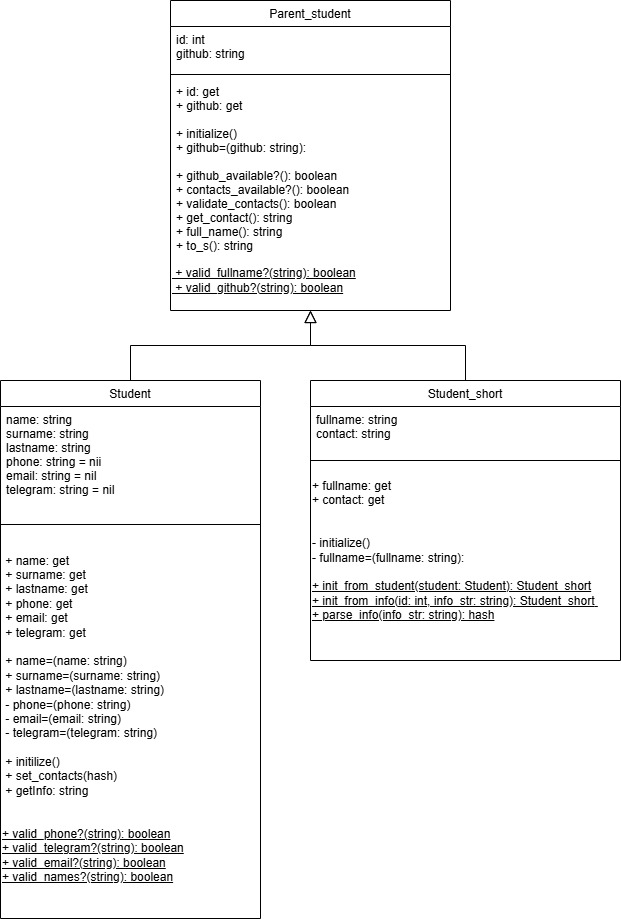
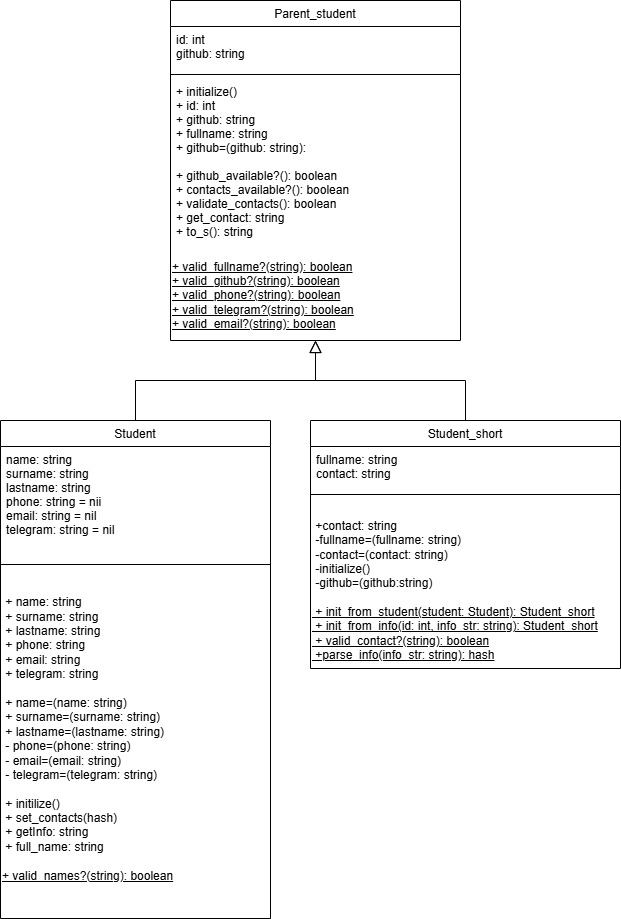
(lab.2) ref: change get_contact and taken out in parent class

diff --git a/student/student_short.rb b/student/student_short.rb
@@ -3,13 +3,14 @@ require_relative 'student'
 
 class Student_short < Parent_student
 
-  attr_reader :fullname, :contact
+  attr_reader :contact
   private_class_method :new
+  private :github=
 
   def initialize(id:, fullname:, github: nil, contact: nil)
     super(id: id, github: github)
     self.fullname = fullname
-    @contact = contact
+    self.contact = contact
   end
 
   def self.init_from_student(student)
@@ -35,6 +36,29 @@ class Student_short < Parent_student
     end
   end
 
+  private def contact=(contact)
+    if self.class.valid_contact?(contact)
+      @contact = contact
+    else
+      raise ArgumentError, "неверный формат контакта: #{contact}"
+    end
+  end
+
+  def self.valid_contact?(contact)
+    return true if contact.nil? || contact.empty? 
+    info = contact.split(" ")
+    case info[0]
+    when "phone:"
+      Student_short.valid_phone?(info[1]) 
+    when "telegram:"
+      Student_short.valid_telegram?(info[1]) 
+    when "email:"
+      Student_short.valid_email?(info[1])
+    else
+      false
+    end
+  end
+
   def self.parse_info(info_str)
     parts = info_str.split(", ")
     fullname = parts[0]
@@ -43,3 +67,4 @@ class Student_short < Parent_student
     { fullname: fullname, github: github, contact: contact }
   end
 end
+

diff --git a/blocks, collections, tests/array_tasks.rb b/blocks, collections, tests/array_tasks.rb
@@ -1,0 +1,51 @@
+def find_min(arr)
+    min_value = arr[0]
+    for i in 1...arr.length
+      if arr[i] < min_value
+        min_value = arr[i]
+      end
+    end
+    min_value
+  end
+  
+  def first_found(arr)
+    for i in 0...arr.length
+      return i if arr[i] > 0
+    end
+    -1 
+  end
+  
+  def read_array(path)
+    begin
+      file = File.open(path, "r")
+      array = file.read.split.map(&:to_i)
+      file.close
+      array
+    end
+  end
+  
+  if ARGV.size == 2
+    method = ARGV[0].to_i
+    file = ARGV[1]
+    array = read_array(file)
+    p
+    if method == 1
+      min = find_min(array)
+      if min.nil?
+        puts "Массив пуст"
+      else
+        puts "Минимальный элемент массива: #{min}"
+      end
+    elsif method == 2
+      index = first_found(array)
+      if index == -1
+        puts "Нет положительных элементов"
+      else
+        puts "Номер первого положительного элемента массива: #{index+1}"
+      end
+    else
+      puts "Введите либо 1, либо 2"
+    end
+  else
+    puts "Введите 2 аргумента"
+  end

diff --git a/student/parent_student.rb b/student/parent_student.rb
@@ -1,6 +1,6 @@
 class Parent_student
   
-  attr_reader :id, :github
+  attr_reader :id, :github, :fullname
 
   def initialize(id: nil, github: nil)
     @id=id
@@ -21,6 +21,18 @@ class Parent_student
 
   def self.valid_github?(github)
     github.match?(/\Ahttps:\/\/github\.com\/[a-zA-Z0-9_-]+\z/)
+  end
+
+  def self.valid_phone?(phone)
+    phone.match?(/^(?:\+7|8)\d{10}$/)
+  end
+
+  def self.valid_telegram?(telegram)
+    telegram.match?(/\A@[\w\d_]{5,32}\z/)
+  end
+
+  def self.valid_email?(email)
+    email.match?(/\A[\w+\-.]+@[a-z\d\-.]+\.[a-z]+\z/i)
   end
 
   def github_available?
@@ -49,10 +61,6 @@ class Parent_student
     else 
       return nil
     end
-  end
-
-  def full_name
-    @fullname = "#{@surname} #{@name[0]}#{'.'}#{@lastname[0]}#{'.'}"
   end
 
   def to_s

diff --git a/student/student.rb b/student/student.rb
@@ -65,21 +65,13 @@ class Student < Parent_student
       raise ArgumentError, "неверный формат email: #{email}"
     end
   end
+  
+  def full_name
+    @fullname = "#{@surname} #{@name[0]}#{'.'}#{@lastname[0]}#{'.'}"
+  end
 
   def getInfo
     "#{full_name}, github: #{@github}, contact: #{get_contact}"
-  end
-
-  def self.valid_phone?(phone)
-    phone.match?(/^(?:\+7|8)\d{10}$/)
-  end
-
-  def self.valid_telegram?(telegram)
-    telegram.match?(/\A@[\w\d_]{5,32}\z/)
-  end
-
-  def self.valid_email?(email)
-    email.match?(/\A[\w+\-.]+@[a-z\d\-.]+\.[a-z]+\z/i)
   end
 
   def self.valid_names?(name)

diff --git a/student/main.rb b/student/main.rb
@@ -15,10 +15,9 @@ student_short = Student_short.init_from_student(student1)
 puts ""
 puts student_short
 info_str=student2.getInfo
-puts ""
 puts info_str
+puts ""
 student_short2 = Student_short.init_from_info(2, info_str)
+puts student_short2
 puts ""
-puts student_short2.get_contact
-puts ""
-puts student_short2.github
+puts student_short.fullname
